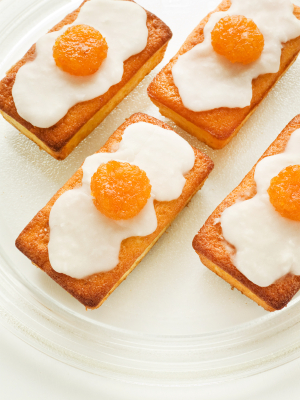
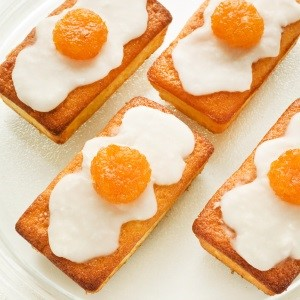
update the Recipes.php and change the pix size

diff --git a/application/models/Recipes.php b/application/models/Recipes.php
@@ -12,19 +12,17 @@ class Recipes extends CI_Model {
 	// The data comes from http://www.quotery.com/top-100-funny-quotes-of-all-time/?PageSpeed=noscript
 	var $recipe = array(
 		array('id' => '1', 'name' => 'Applesauce Spice Cake', 'pic' => 'Applesauce_Spice_Cake.jpg', 'where' => '/production/1',
-			'ingredients' => '1 can Baker\'s Joy® Original Non-Stick Baking Spray with Flour, 1 16 oz. package Yellow cake mix, 1 3.4 oz. package instant vanilla or butterscotch pudding mix, 4 eggs, 1 cup applesauce, 1 cup water, 1/3 cup vegetable oil, 1/2 tsp. ground nutmeg, 1/4 tsp. ground allspice, confectioner\'s sugar (sprinkled) (optional)'),
+			'ingredients' => array('1 can Baker\'s Joy® Original Non-Stick Baking Spray with Flour', '1 16 oz. package Yellow cake mix', '1 3.4 oz. package instant vanilla or butterscotch pudding mix', '4 eggs', '1 cup applesauce', '1 cup water', '1/3 cup vegetable oil', '1/2 tsp. ground nutmeg', '1/4 tsp. ground allspice, confectioner\'s sugar (sprinkled) (optional)')),
 		array('id' => '2', 'name' => 'Almond Tea Cake', 'pic' => 'Almond_Tea_Cake.jpg', 'where' => '/production/2',
-			'ingredients' => '1 can Baker\'s Joy® Original Non-Stick Baking Spray with Flour, 18 blanched almonds, 1 1/2 cups all purpose flour, 1/3 cups corn starch, 1 tsp. baking powder, 1/2 tsp. salt, 1 1/3 cups butter (melted), 1/4 cup frozen orange juice contentrate (thawed), 1 Tbsp. grated orange peel, 1 1/3 cups sugar, 5 eggs, 5 egg yolks'),
+			'ingredients' => array('1 can Baker\'s Joy® Original Non-Stick Baking Spray with Flour', '18 blanched almonds', '1 1/2 cups all purpose flour', '1/3 cups corn starch', '1 tsp. baking powder', '1/2 tsp. salt', '1 1/3 cups butter (melted)', '1/4 cup frozen orange juice contentrate (thawed)', '1 Tbsp. grated orange peel', '1 1/3 cups sugar', '5 eggs, 5 egg yolks')),
 		array('id' => '3', 'name' => 'Apricot Bars', 'pic' => 'Apricot_Bars.jpg', 'where' => '/production/3',
-			'ingredients' => '1 can Baker\'s Joy® Original Non-Stick Baking Spray with Flour, 1 cup dried apricots, 1 cup orange juice, 1 1/2 cups quick or old fashioned oats (uncooked), 3/4 cup all-purpose flour, 1/2 cup SugarTwin Granulated Brown or granulated brown sugar, 1 tsp. cinnamon, 1 tsp. baking powder, 1/4 tsp. salt, 1/2 cup butter (melted), 1 tsp. vanilla extract'),
+			'ingredients' => array('1 can Baker\'s Joy® Original Non-Stick Baking Spray with Flour', '1 cup dried apricots', '1 cup orange juice', '1 1/2 cups quick or old fashioned oats (uncooked)', '3/4 cup all-purpose flour', '1/2 cup SugarTwin Granulated Brown or granulated brown sugar', '1 tsp. cinnamon', '1 tsp. baking powder', '1/4 tsp. salt', '1/2 cup butter (melted)', '1 tsp. vanilla extract')),
 		array('id' => '4', 'name' => 'Blueberry Lemon Coffee Cake', 'pic' => 'BG_Blueberry_Lemmon_Coffee_Cake.jpg', 'where' => '/production/4',
-			'ingredients' => '1 can Baker\'s Joy® Original Non-Stick Baking Spray with Flour, 2 cups all purpose flour, 1 tsp. baking soda, 1/2 tsp. salt, 1/2 cup unsalted butter (softened), 1 cup sugar, 2 large eggs, 1 tsp. vanilla extract, 1 8 oz. container sour cream, 2 cups blueberries ((fresh or frozen, thawed)), 1 1/2 cups all-purpose flour, 1/2 cup brown sugar, 1/2 tsp. cinnamon'),
+			'ingredients' => array('1 can Baker\'s Joy® Original Non-Stick Baking Spray with Flour', '2 cups all purpose flour', '1 tsp. baking soda', '1/2 tsp. salt', '1/2 cup unsalted butter (softened)', '1 cup sugar', '2 large eggs', '1 tsp. vanilla extract', '1 8 oz. container sour cream', '2 cups blueberries ((fresh or frozen, thawed))', '1 1/2 cups all-purpose flour', '1/2 cup brown sugar', '1/2 tsp. cinnamon')),
 		array('id' => '5', 'name' => 'Chocolate Brownies', 'pic' => 'Chocolate_Brownies.jpg', 'where' => '/production/5',
-			'ingredients' => '1 can Baker\'s Joy® Original Non-Stick Baking Spray with Flour, 1 cup all purpose flour, 1/2 cup sugar or sugar twin granulated white, 1/2 cup unsweetened cocoa powder, 1 tsp. baking powder, 1/2 tsp. salt, 3 eggs, 2/3 cup unsweetened applesauce, 1/4 cup unsalted butter (melted), 2 tsp. vanilla extract, 3/4 cup semi-sweet chocolate chips'),
+			'ingredients' => array('1 can Baker\'s Joy® Original Non-Stick Baking Spray with Flour', '1 cup all purpose flour', '1/2 cup sugar or sugar twin granulated white', '1/2 cup unsweetened cocoa powder', '1 tsp. baking powder', '1/2 tsp. salt', '3 eggs', '2/3 cup unsweetened applesauce', '1/4 cup unsalted butter (melted)', '2 tsp. vanilla extract', '3/4 cup semi-sweet chocolate chips')),
 		array('id' => '6', 'name' => 'Swedish Rum Cake', 'pic' => 'Swedish_Rum_Cake.jpg', 'where' => '/production/6',
-			'ingredients' => '1.75 cup sugar, 1.75 cup butter (softened), 4 eggs, 2/3 cup milk, 1 Tbsp. dark rum, 1 tsp. lemon peel (grated), 2 1/2 cups all-purpose flour, 2 tsp. baking powder, 1 can Baker\'s Joy® Original Non-Stick Baking Spray with Flour, 1 cup heavy whipping cream, 3 egg yolks, 1/4 tsp. salt'),
-
-        //array('id' => '1', 'name' => 'New York Cheesecake', 'picture')
+			'ingredients' => array('1.75 cup sugar', '1.75 cup butter (softened)', '4 eggs', '2/3 cup milk', '1 Tbsp. dark rum', '1 tsp. lemon peel (grated)', '2 1/2 cups all-purpose flour', '2 tsp. baking powder', '1 can Baker\'s Joy® Original Non-Stick Baking Spray with Flour', '1 cup heavy whipping cream', '3 egg yolks', '1/4 tsp. salt')),
 	);
 
 	// Constructor

diff --git a/application/controllers/Recipe.php b/application/controllers/Recipe.php
@@ -19,9 +19,10 @@ class Recipe extends Application
 		$this->data['pagebody'] = 'recipe_view';
 
 		// build one item, to pass on to our view
-		$record = $this->recipes->get($this->getID($_SERVER["REQUEST_URI"]));
-        $this->data = array_merge($this->data, $record);
-
+		$record = $this->recipes->get($this->getID($_SERVER["REQUEST_URI"]));		
+		$this->data = array_merge($this->data, $record);
+		$this->data['ingredients'] = implode("</li><li>",$this->data['ingredients']);		
+		//echo $this->data['ingredients'];
 		$this->render();
 	}
 

diff --git a/application/views/recipe_view.php b/application/views/recipe_view.php
@@ -2,6 +2,7 @@
     <div class="span3"><img src="/pix/{pic}" title="{name}"/></div>
     <div class="span8 offset1">
         <p class="lead">{name}</p><br/>
-        <p class="text-right">{ingredients}</p>
+        <!--<p class="text-right">{ingredients}</p>-->
+        <ul><li>{ingredients}</ul>
     </div>
 </div>
